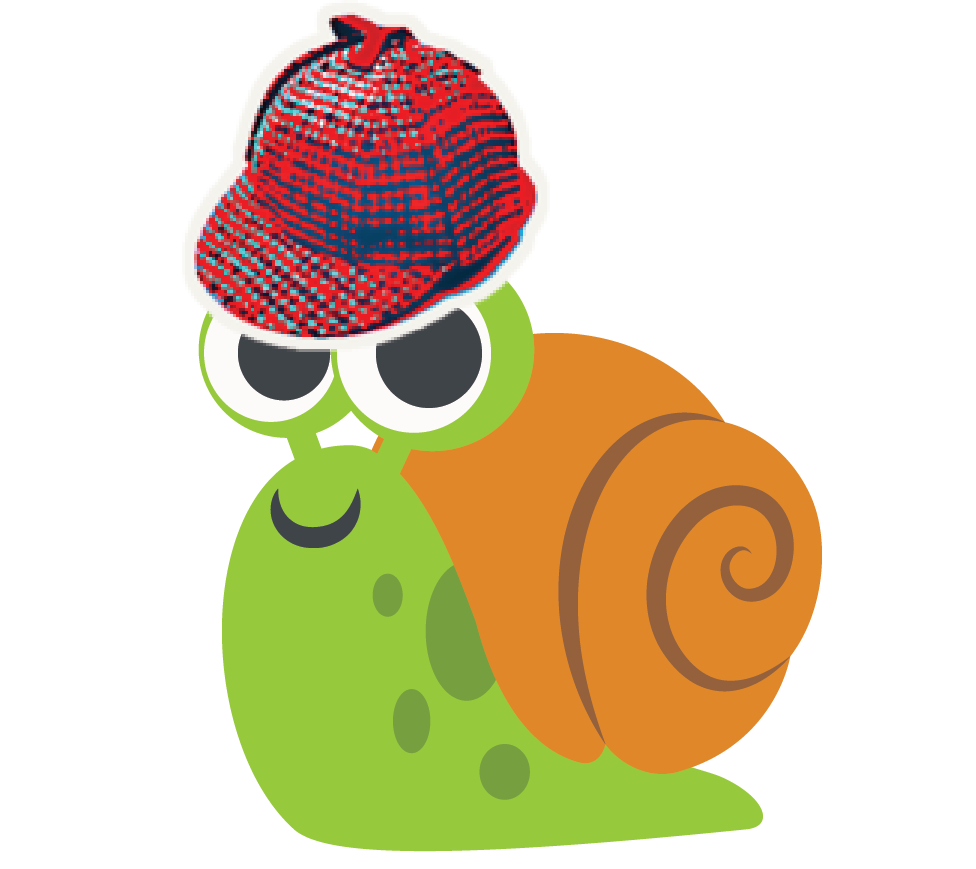
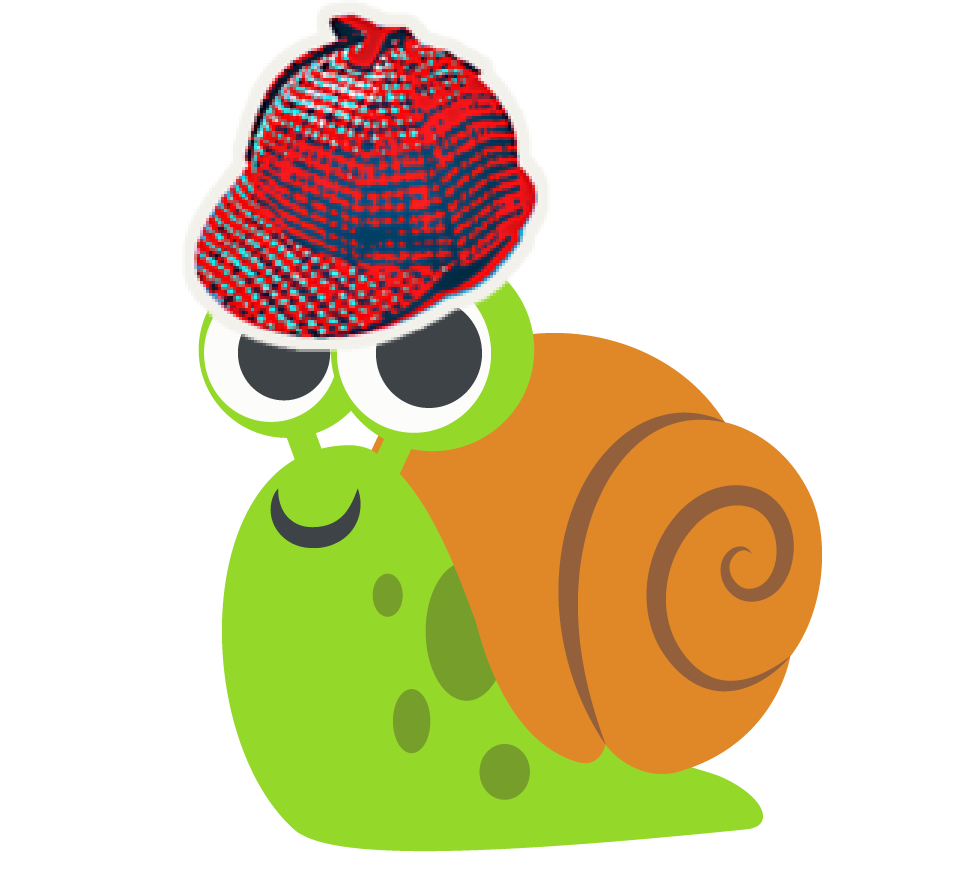
update snail image and shorten description

Changed region(s): [[0.1844, 0.1554, 0.3996, 0.4039], [0.2766, 0.0621, 0.4918, 0.1864]]

diff --git a/docs/index.html b/docs/index.html
@@ -4,20 +4,20 @@
 <meta charset="utf-8">
 <meta name="viewport" content="width=device-width, initial-scale=1">
 <title>Is Sherlock Slow?</title>
-<meta name="description" content="Polls write speed and file-creation rate across the Sherlock filesystems every 15 min — spot when a job's hogging IO.">
+<meta name="description" content="A lightweight poll for write speed and file-creation rate across the Sherlock filesystems">
 
 <link rel="icon" type="image/png" href="snail.png">
 <link rel="apple-touch-icon" href="snail.png">
 
 <meta property="og:type" content="website">
 <meta property="og:title" content="Is Sherlock Slow?">
-<meta property="og:description" content="Polls write speed and file-creation rate across the Sherlock filesystems every 15 min — spot when a job's hogging IO.">
+<meta property="og:description" content="A lightweight poll for write speed and file-creation rate across the Sherlock filesystems">
 <meta property="og:image" content="https://danielchang2002.github.io/issherlockslow/snail.png">
 <meta property="og:url" content="https://danielchang2002.github.io/issherlockslow/">
 
 <meta name="twitter:card" content="summary_large_image">
 <meta name="twitter:title" content="Is Sherlock Slow?">
-<meta name="twitter:description" content="Polls write speed and file-creation rate across the Sherlock filesystems every 15 min — spot when a job's hogging IO.">
+<meta name="twitter:description" content="A lightweight poll for write speed and file-creation rate across the Sherlock filesystems">
 <meta name="twitter:image" content="https://danielchang2002.github.io/issherlockslow/snail.png">
 
 <style>
